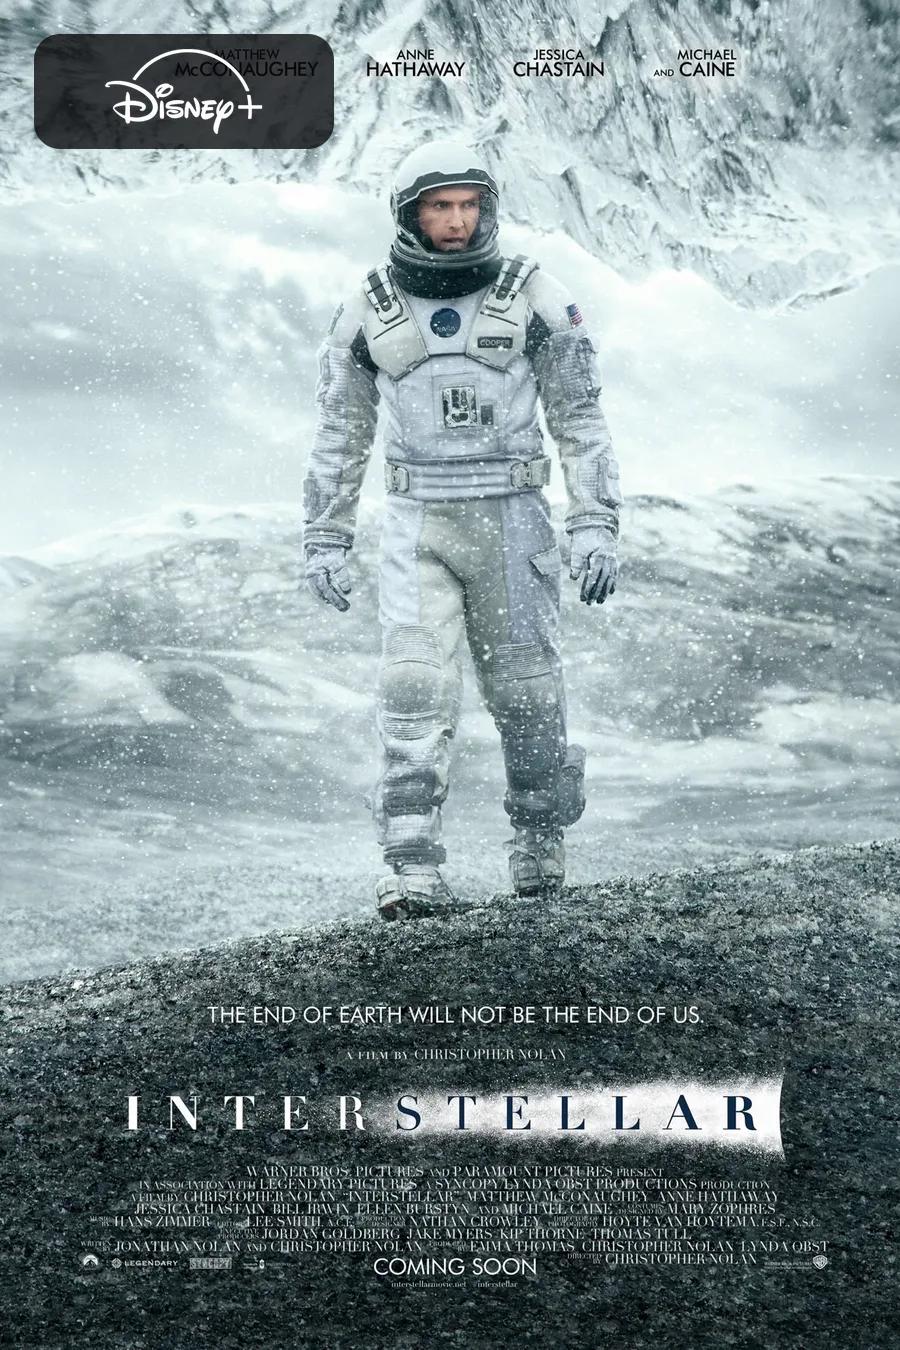
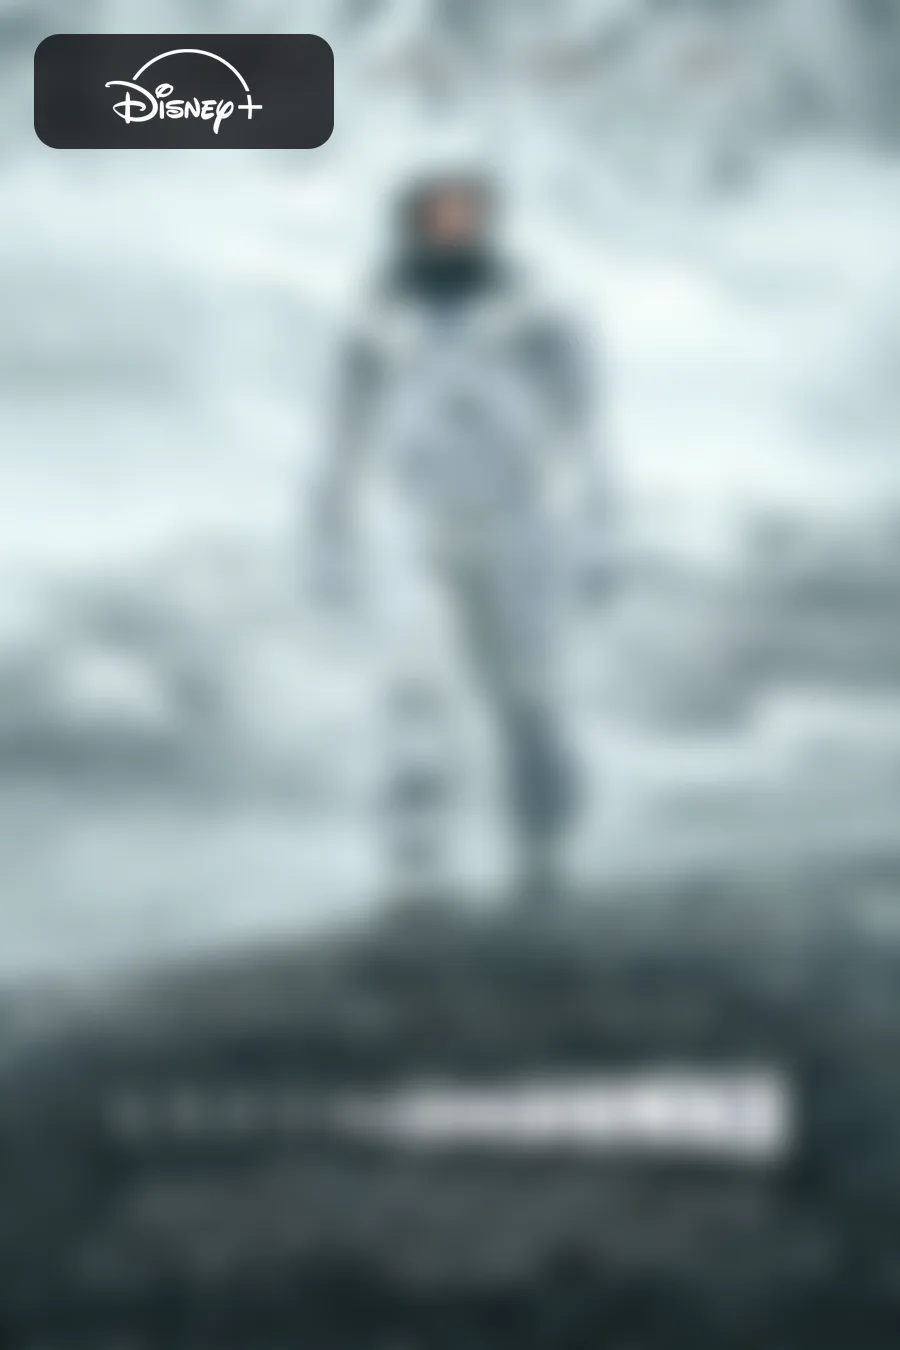
giristen sonra karsilama ekrani, afisler bulaniklastirildi
Afisler bulaniklastirildi (yaricap 18). Ilk denemede 7 kullandim ama
kare ekranda ~160 px'e inince bulaniklik ~1 px'e dusuyor ve hic
gorunmuyordu; 900 px'lik kaynakta 18 gerekiyor. Bulanikligi rozetten
once uyguladim, yoksa platform logolari da bulaniyordu.

Yeni ekran: src/app/karsilama.tsx. Giris ekranindaki uc dugme artik ana
ekrana degil buraya gidiyor, "Devam et" bayragi yazip ana ekrana
donuyor. KARSILAMA_ANAHTARI da bu dosyaya tasindi.

Metin src/data/karsilamaSayfalari.ts'te dizi olarak duruyor. Yatay
sayfalama ve nokta gostergesi kurulu ama tek sayfa oldugu icin noktalar
cizilmiyor; premium ve "Aron film barindirmiyor" sayfalari geldiginde
yalniz diziye satir eklenecek, ekran degismeyecek.

Kedi fotografi 1012x1789'dan kedilerin cevresine kirpildi (150,790
noktasindan 720x720) ve 900x900'e olceklendi; kediler cerceveye gore
yaklasik 1,5 kat buyudu.

Italik yapilamadi: yuklu yazi tipi ailelerinde (Plus Jakarta Sans, Sora)
italik kesim yok. fontStyle italic verilseydi React Native ozel aileyi
birakip sistem yazi tipine duserdi, yani butun ekranin yazisi degisirdi.
Italik istenirse ailenin italik dosyasini eklemek gerekiyor.

Claude-Session: https://claude.ai/code/session_01XcZcfiDn6ZtQUk3dNpKemr

diff --git a/src/app/karsilama.tsx b/src/app/karsilama.tsx
@@ -1,0 +1,134 @@
+import AsyncStorage from "@react-native-async-storage/async-storage";
+import { Image } from "expo-image";
+import { LinearGradient } from "expo-linear-gradient";
+import { useRouter } from "expo-router";
+import { useCallback, useRef, useState } from "react";
+import { Pressable, ScrollView, StyleSheet, View, useWindowDimensions } from "react-native";
+import { SafeAreaView } from "react-native-safe-area-context";
+
+import { Txt } from "@/components/Txt";
+import { KARSILAMA_SAYFALARI } from "@/data/karsilamaSayfalari";
+import { Icon } from "@/icons/Icon";
+import { haptic } from "@/lib/haptics";
+import { C } from "@/theme/colors";
+
+export const KARSILAMA_ANAHTARI = "aron.karsilama.goruldu";
+
+export default function Karsilama() {
+  const router = useRouter();
+  const { width } = useWindowDimensions();
+  const akis = useRef<ScrollView>(null);
+  const [sayfa, setSayfa] = useState(0);
+  const son = sayfa >= KARSILAMA_SAYFALARI.length - 1;
+
+  const ileri = useCallback(async () => {
+    haptic.select();
+    if (!son) {
+      const hedef = sayfa + 1;
+      setSayfa(hedef);
+      akis.current?.scrollTo({ x: hedef * width, animated: true });
+      return;
+    }
+    try { await AsyncStorage.setItem(KARSILAMA_ANAHTARI, "1"); } catch { /* yoksay */ }
+    router.replace("/");
+  }, [son, sayfa, width, router]);
+
+  return (
+    <View style={styles.kok}>
+      <LinearGradient
+        colors={["rgba(232,179,65,.10)", "rgba(8,8,12,0)"]}
+        style={styles.isik}
+        pointerEvents="none"
+      />
+
+      <SafeAreaView style={{ flex: 1 }} edges={["top", "bottom"]}>
+        <ScrollView
+          ref={akis}
+          horizontal
+          pagingEnabled
+          scrollEnabled={KARSILAMA_SAYFALARI.length > 1}
+          showsHorizontalScrollIndicator={false}
+          onMomentumScrollEnd={(e) => setSayfa(Math.round(e.nativeEvent.contentOffset.x / width))}
+        >
+          {KARSILAMA_SAYFALARI.map((s) => (
+            <ScrollView
+              key={s.anahtar}
+              style={{ width }}
+              contentContainerStyle={styles.sayfa}
+              showsVerticalScrollIndicator={false}
+            >
+              <Image
+                source={require("@/assets/karsilama/kediler.webp")}
+                style={styles.foto}
+                contentFit="cover"
+                transition={220}
+              />
+              {!!s.altYazi && (
+                <Txt weight="bold" size={12.5} color={C.dim} align="center" style={styles.fotoAlti}>
+                  {s.altYazi}
+                </Txt>
+              )}
+
+              <View style={styles.kart}>
+                <Txt weight="displayBold" size={22} color="#fff" align="center" style={styles.baslik}>
+                  {s.baslik}
+                </Txt>
+                {s.paragraflar.map((p, i) => (
+                  <Txt
+                    key={i}
+                    size={14}
+                    color="rgba(255,255,255,.82)"
+                    align="center"
+                    lh={1.62}
+                    style={styles.paragraf}
+                  >
+                    {p}
+                  </Txt>
+                ))}
+              </View>
+            </ScrollView>
+          ))}
+        </ScrollView>
+
+        <View style={styles.dip}>
+          <Pressable style={styles.dugme} onPress={ileri}>
+            <Txt weight="extrabold" size={15.5} color="#241A05">
+              {son ? "Devam et" : "İleri"}
+            </Txt>
+            <Icon name="chev" size={19} sw={2.4} color="#241A05" />
+          </Pressable>
+
+          {KARSILAMA_SAYFALARI.length > 1 && (
+            <View style={styles.noktalar}>
+              {KARSILAMA_SAYFALARI.map((s, i) => (
+                <View key={s.anahtar} style={[styles.nokta, i === sayfa && styles.noktaAcik]} />
+              ))}
+            </View>
+          )}
+        </View>
+      </SafeAreaView>
+    </View>
+  );
+}
+
+const styles = StyleSheet.create({
+  kok: { flex: 1, backgroundColor: C.bg },
+  isik: { position: "absolute", top: 0, left: 0, right: 0, height: 320 },
+  sayfa: { paddingHorizontal: 22, paddingTop: 18, paddingBottom: 26, alignItems: "center" },
+  foto: { width: "78%", aspectRatio: 1, borderRadius: 26, backgroundColor: C.card },
+  fotoAlti: { marginTop: 12, paddingHorizontal: 26 },
+  kart: {
+    marginTop: 20, width: "100%", borderRadius: 22, paddingVertical: 22, paddingHorizontal: 20,
+    backgroundColor: "rgba(255,255,255,.05)", borderWidth: 1, borderColor: "rgba(255,255,255,.08)",
+  },
+  baslik: { letterSpacing: 1.4, marginBottom: 16 },
+  paragraf: { marginTop: 12 },
+  dip: { paddingHorizontal: 20, paddingBottom: 12, gap: 16 },
+  dugme: {
+    flexDirection: "row", alignItems: "center", justifyContent: "center", gap: 8,
+    paddingVertical: 16, borderRadius: 16, backgroundColor: C.gold2,
+  },
+  noktalar: { flexDirection: "row", justifyContent: "center", gap: 7 },
+  nokta: { width: 7, height: 7, borderRadius: 4, backgroundColor: "rgba(255,255,255,.22)" },
+  noktaAcik: { backgroundColor: C.gold2, width: 20 },
+});

diff --git a/src/data/karsilamaSayfalari.ts b/src/data/karsilamaSayfalari.ts
@@ -1,0 +1,22 @@
+export type KarsilamaSayfasi = {
+  anahtar: string;
+  baslik: string;
+  altYazi?: string;
+  paragraflar: string[];
+};
+
+export const KARSILAMA_SAYFALARI: KarsilamaSayfasi[] = [
+  {
+    anahtar: "tesekkur",
+    baslik: "TEŞEKKÜR EDERİM",
+    altYazi: "Aynı yere bakmak için aynı yerde olmak gerekmiyor.",
+    paragraflar: [
+      "Bu uygulamayı uzak mesafe ilişkisi yaşayan insanlar için yaptım. Sevgililer, aileler, arkadaşlar… Aynı odada olamayan herkes için.",
+      "Sevgilimle ben aynı şehirde değiliz. Görüntülü konuşurken bile bir şey hep eksik kalıyordu: aynı anda aynı şeyi izlemek. “Şimdi durdur”, “üç deyince başlıyoruz” derken birlikte film izlemek bile küçük bir koordinasyona dönüşüyordu.",
+      "Sonra düşündüm: Neden gerçekten aynı odadaymışız gibi olmasın?",
+      "Aron böyle ortaya çıktı.",
+      "Aron bir film uygulaması değil. Aranızdaki mesafeyi birkaç saatliğine kapatan bir oda.",
+      "Eğer Aron sayesinde bir gün olsun sevdiklerinizle aranızdaki uzaklığı unuttuysanız, benim için amacı gerçekleşmiş demektir.",
+    ],
+  },
+];

diff --git a/src/app/giris.tsx b/src/app/giris.tsx
@@ -1,4 +1,3 @@
-import AsyncStorage from "@react-native-async-storage/async-storage";
 import { Image } from "expo-image";
 import { useRouter } from "expo-router";
 import { useCallback, useState } from "react";
@@ -14,16 +13,13 @@ import { KARSILAMA_KARELERI } from "@/data/karsilamaKareleri";
 import { haptic } from "@/lib/haptics";
 import { C } from "@/theme/colors";
 
-export const KARSILAMA_ANAHTARI = "aron.karsilama.goruldu";
-
 export default function Giris() {
   const router = useRouter();
   const [markaHatasi, setMarkaHatasi] = useState(false);
 
-  const devam = useCallback(async () => {
+  const devam = useCallback(() => {
     haptic.select();
-    try { await AsyncStorage.setItem(KARSILAMA_ANAHTARI, "1"); } catch { /* yoksay */ }
-    router.replace("/");
+    router.replace("/karsilama");
   }, [router]);
 
   return (

diff --git a/src/app/index.tsx b/src/app/index.tsx
@@ -6,7 +6,7 @@ import { FlatList, Pressable, StyleSheet, View } from "react-native";
 import { SafeAreaView, useSafeAreaInsets } from "react-native-safe-area-context";
 
 import { Anim } from "@/components/Anim";
-import { KARSILAMA_ANAHTARI } from "@/app/giris";
+import { KARSILAMA_ANAHTARI } from "@/app/karsilama";
 import { BaslatAmblemi } from "@/components/BaslatAmblemi";
 import { Portrait } from "@/components/Portrait";
 import { TanitimBanner } from "@/components/TanitimBanner";
